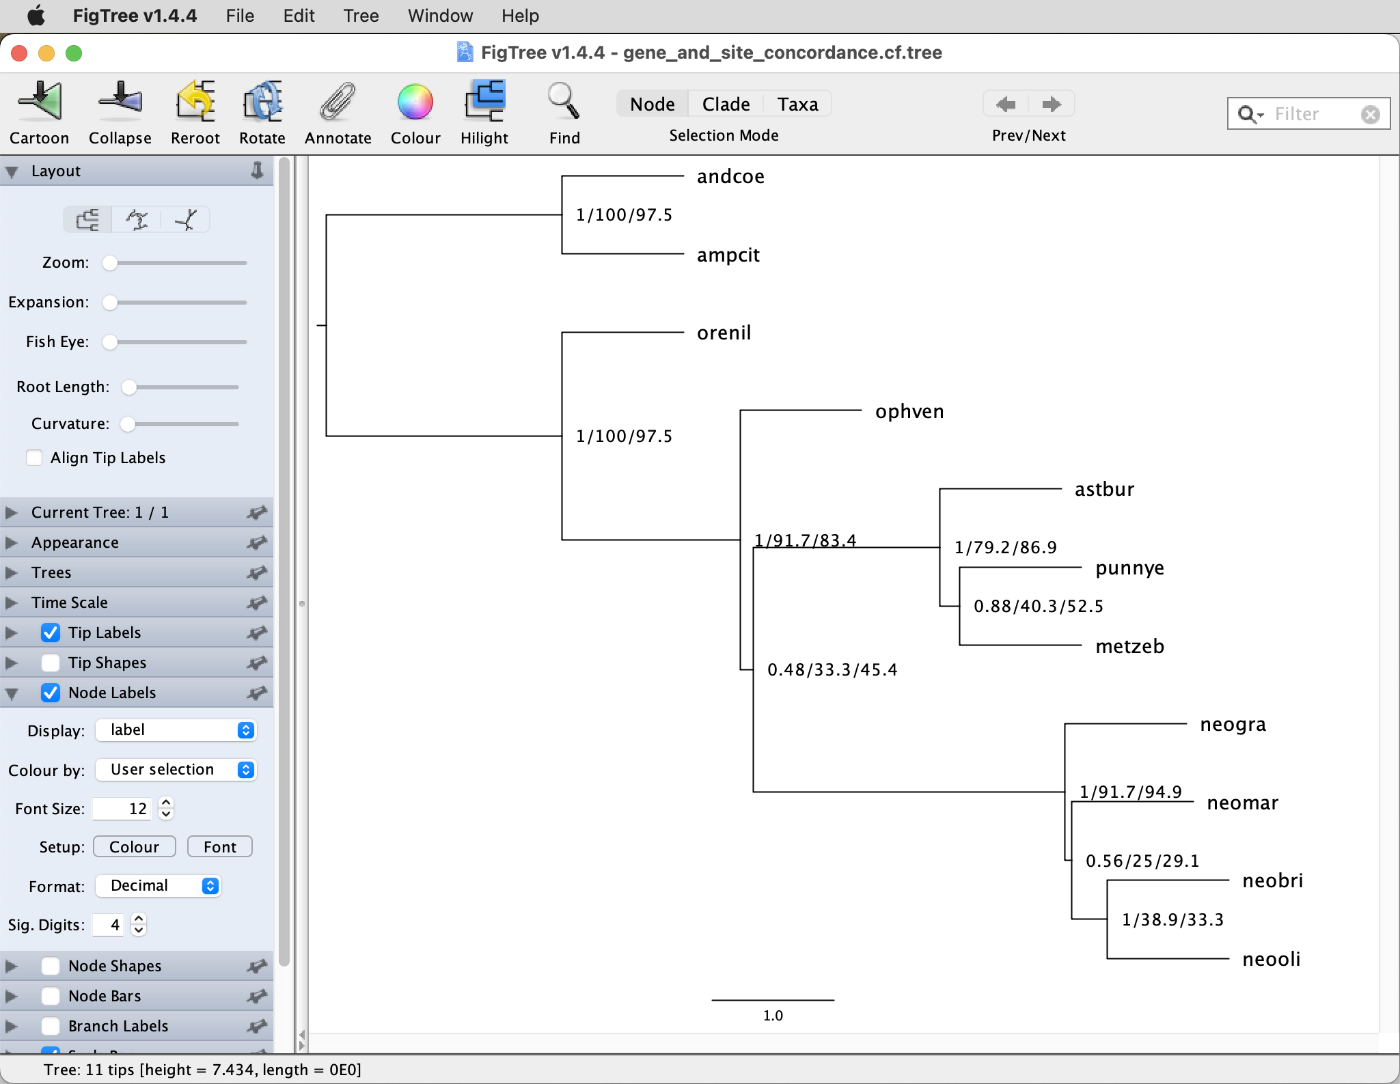
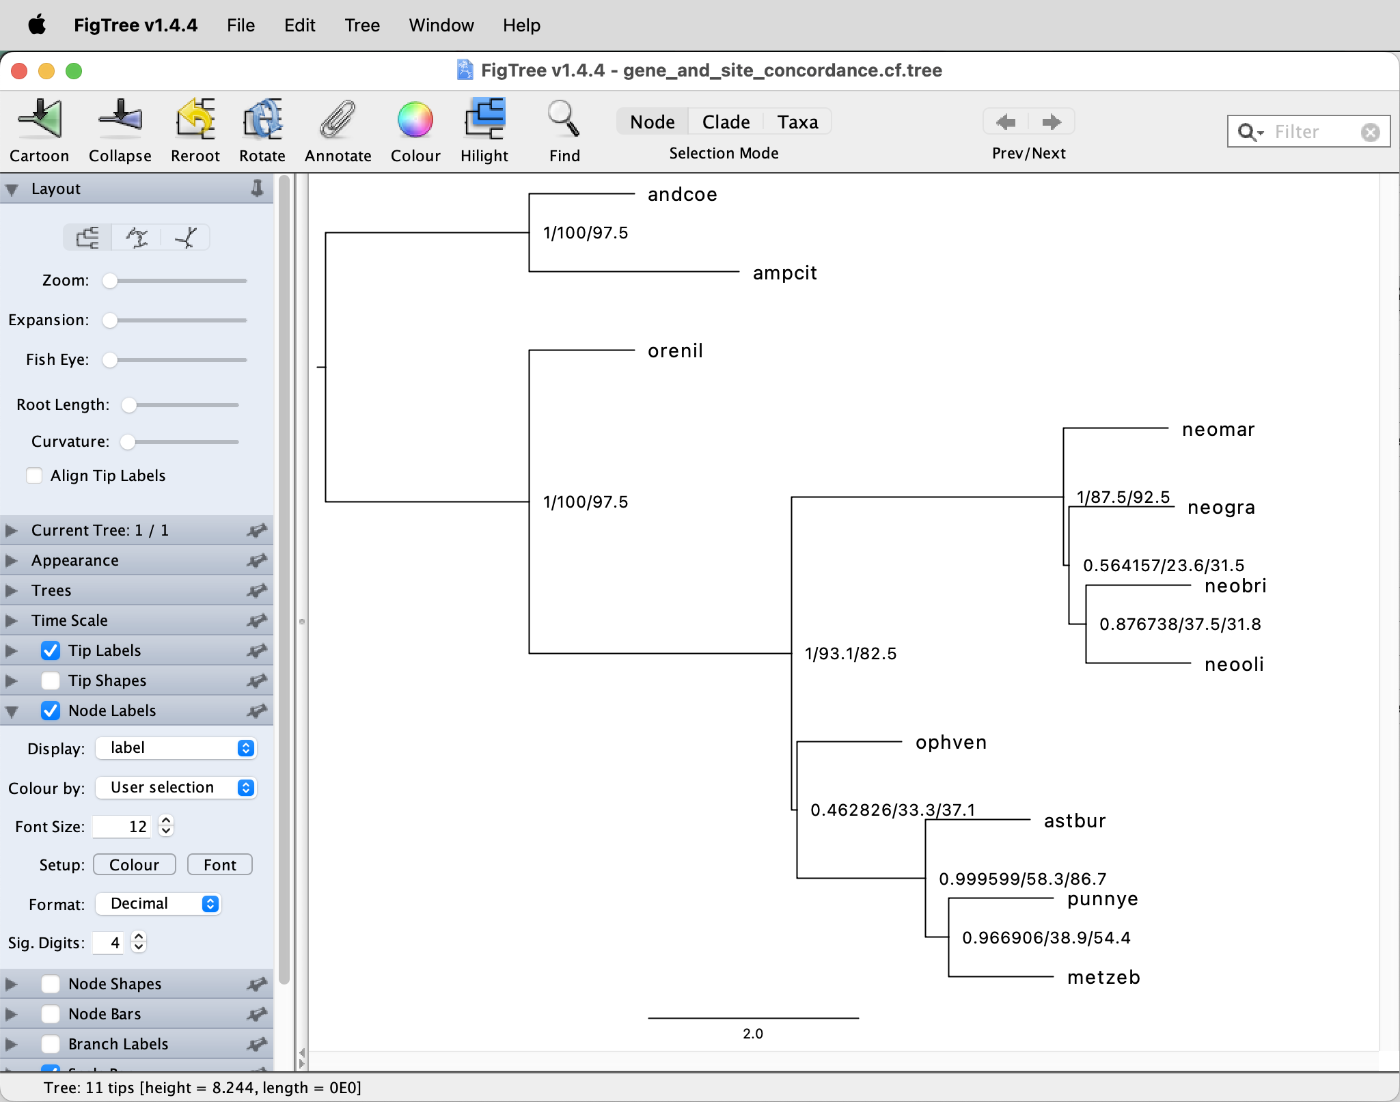
finished ml species tree inference

diff --git a/ml_species_tree_inference/README.md b/ml_species_tree_inference/README.md
@@ -243,12 +243,11 @@ Recent versions of IQ-TREE (from v.1.7) ([Minh et al. 2020](https://doi.org/10.1
 	
 * To also calculate site-concordance factors, we'll first need to generate a concatenated version of all gene alignments. We can do that with the Ruby script `concatenate.rb`, which you probably already used in another tutorial. If not, download it from GitHub:
 
-		wget https://raw.githubusercontent.com/mmatschiner/anguilla/master/radseq/src/concatenate.rb
+		wget https://raw.githubusercontent.com/mmatschiner/phylogenomics/refs/heads/main/ml_species_tree_inference/scripts/concatenate.rb
 
-* Concatenate all 72 alignments using the script by executing it with `srun`:
+* Concatenate all 72 alignments using the script `concatenate.rb`:
 
-		module load Ruby/2.7.2-GCCcore-9.3.0
-		srun --ntasks=1 --mem-per-cpu=1G --time=00:01:00 --account=nn9458k --pty ruby concatenate.rb -i 72_genes/*.nex -o 72_genes.nex -f nexus
+		ruby concatenate.rb -i 72_genes/*.nex -o 72_genes.nex -f nexus
 
 	(`-i` specifies the set of gene alignments, `-o` specifies the name of the concatenated output file, and `-f` specifies the format of the output file).
 	
@@ -260,38 +259,29 @@ Recent versions of IQ-TREE (from v.1.7) ([Minh et al. 2020](https://doi.org/10.1
 	
 * By specifying the concatenated alignment with the `-s` option and by activating the calculation of site-concordance factors with the `--scf` option, followed by a maximum number of species quartets to be considered in the analysis (100 is by far sufficient), we can now calculate gene and site-concordance factors in the same IQ-TREE analysis with the following command:
 
-		srun --ntasks=1 --mem-per-cpu=1G --time=00:01:00 --account=nn9458k --pty iqtree2 -t species_pp.tre --gcf ml_best.trees -s 72_genes.nex --scf 100 --prefix gene_and_site_concordance
+		iqtree3 -t wastral_mode1.tre --gcf ml_best.trees -s 72_genes.nex --scf 100 --prefix gene_and_site_concordance
 
 * Download file `gene_and_site_concordance.cf.tree` and open it in FigTree. Again orient and root the tree and select "label" to display as node labels. The tree should then appear as shown in the next screenshot.<p align="center"><img src="img/figtree5.png" alt="FigTree" width="700"></p>
 
-	You'll see that three different support values are now shown for each node, these are the posterior probabilities from ASTRAL, the gene-concordance factors, and the site-concordance factors.  
+	You'll see that three different support values are now shown for each node, these are the support values estimated by wASTRAL, the gene-concordance factors, and the site-concordance factors.  
 	
 	**Question 6:** Which proportion of sites supports the monophyly of Lamprologini? [(see answer)](#q6)
 
-Finally, we could try a very recent update of IQ-TREE's site-concordance factors, that was implemented in IQ-TREE version 2.2.2. According to a preprint by the IQ-TREE authors ([Mo et al. 2022](https://www.biorxiv.org/content/10.1101/2022.09.26.509549v1)), this implementation makes site-concordance factors more robust to homoplasies. This is achieved through maximum-likelihood estimation of the ancestral states at internal nodes, so that site-concordance factors of more ancestral nodes can then be calculated based on these reconstructed states instead of those found at the tips at the phylogeny.
+<!--
+* Finally, you could try an updated version of IQ-TREE's site-concordance factors, which the authors claim to be more robust to homoplasies ([Mo et al. 2023](https://doi.org/10.1093/bioinformatics/btac741)). This robustness is achieved through maximum-likelihood estimation of the ancestral states at internal nodes, so that site-concordance factors of more ancestral nodes can then be calculated based on these reconstructed states instead of those found at the tips at the phylogeny. The newer version of site-concordance factors is calculated with `--scfl` instead of `--scf`:
 
-* As this latest update of IQ-TREE is only available as a pre-release version and is not yet installed as a module on Saga, we will have to download it ourselves. Fortunately, the installation is very easy. Use the following command to download this version into your working directory on Saga:
-
-		wget https://github.com/iqtree/iqtree2/releases/download/v2.2.2/iqtree-2.2.2-Linux.tar.gz
-		
-* Uncompress the downloaded file with `tar`:
-
-		tar -xzf iqtree-2.2.2-Linux.tar.gz
-
-* Execute this command to calculate the new site concordance factors, in which `iqtree-2.2.2-Linux/bin/iqtree2` is called instead of `iqtree2`, the new version of site-concordance factors is calculated with `--scfl` instead of `--scf`, and the prefix `gene_and_new_site_concordance` is used:
-
-		srun --ntasks=1 --mem-per-cpu=1G --time=00:01:00 --account=nn9458k --pty iqtree-2.2.2-Linux/bin/iqtree2 -t species_pp.tre -s 72_genes.nex --scfl 100 --prefix new_site_concordance
+		iqtree3 -t wastral_mode1.tre -s 72_genes.nex --scfl 100 --prefix new_site_concordance
 
 	Note that gene-concordance factors are now not calculated simultaneously, because this is not possible in combination with the new version of the site-concordance factors (and because we already know them anyway).
 	
-* Download the tre file `new_site_concordance.cf.tree` from Saga to your own computer.
+* Download the tre file `new_site_concordance.cf.tree` from lynx to your own computer.
 
-* Open file `new_site_concordance.cf.tree ` in FigTree. Again orient and root it, and select "label" to display as node labels. The tree will then probably look as shown in the next screenshot.<p align="center"><img src="img/figtree6.png" alt="FigTree" width="700"></p>
+* Open file `new_site_concordance.cf.tree` in FigTree. Again orient and root it, and select "label" to display as node labels. The tree will then probably look as shown in the next screenshot.<p align="center"><img src="img/figtree6.png" alt="FigTree" width="700"></p> XXX figure missing XXX
 
 	**Question 7:** Why have the branch lengths changed? [(see answer)](#q7)
 	
-	The first parts of the node labels are again the posterior probabilities from ASTRAL, but the values after the forward slashes are now the new site-concordance factors. By comparing these to the standard site-concordance factors that we calculated before, you should see that the new site-concordance factors are in almost all cases larger.
-
+	The first parts of the node labels are again the support values estimated with wASTRAL, but the values after the forward slashes are now the new site-concordance factors. By comparing these to the standard site-concordance factors that we calculated before, you should see that the new site-concordance factors are in almost all cases larger.
+-->
 
 
 <br><hr>
@@ -322,8 +312,10 @@ Finally, we could try a very recent update of IQ-TREE's site-concordance factors
 
 <a name="q6"></a>
 
-* **Question 6:** As shown in the table at the beginning of this tutorial, the tribe called Lamprologini is in our dataset represented by four species: *Neolamprologus brichardi* ("neobri"), *Neolamprologus marunguensis* ("neomar"), *Neolamprologus gracilis* ("neogra"), and *Neolamprologus olivaceous* ("neooli"). The most ancestral node among the four species has the label "1/91.7/94.3", meaning that 91.7% of the gene trees (66 of the 72 trees) and 94.3% of the alignment sites support this node.
+* **Question 6:** As shown in the table at the beginning of this tutorial, the tribe called Lamprologini is in our dataset represented by four species: *Neolamprologus brichardi* ("neobri"), *Neolamprologus marunguensis* ("neomar"), *Neolamprologus gracilis* ("neogra"), and *Neolamprologus olivaceous* ("neooli"). The most ancestral node among the four species has the label "1/87.5/92.5", meaning that 91.7% of the gene trees (66 of the 72 trees) and 94.3% of the alignment sites support this node.
 
+<!--
 <a name="q7"></a>
 
-* **Question 7:** To perform the maximum-likelihood estimation of ancestral states, IQ-TREE re-estimated all branch lengths. The tree topology, however, was constrained to be that of the input tree in file `species_pp.tre`.
+* **Question 7:** To perform the maximum-likelihood estimation of ancestral states, IQ-TREE re-estimated all branch lengths. The tree topology, however, was constrained to be that of the input tree in file `wastral_mode1.tre`.
+-->
